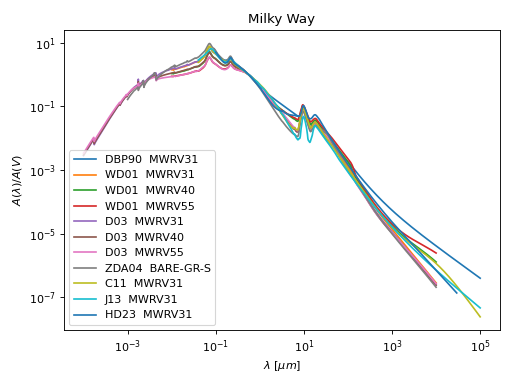
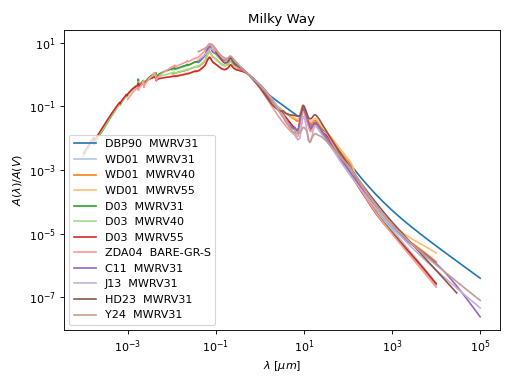
adding in Y24 grain model plot/reference

diff --git a/paper/paper.md b/paper/paper.md
@@ -57,7 +57,7 @@ width=70% }
 
 ![Examples of Parameter Average models [@Cardelli89; @ODonnell94; @Fitzpatrick99; @Fitzpatrick04; @Valencic04; @Gordon09; @MaizApellaniz14; @Fitzpatrick19; @Decleir22; @Gordon23].\label{fig:parameter_averages}](parameter_average_models.png)
 
-![Examples of Grain models that are based on fitting observed extinction curves as well as other dust observables (e.g., emission and polarization) [@Desert90; @Weingartner01; @Draine03; @Zubko04; @Compiegne11; @Jones13; @Hensley23].\label{fig:grain}](grain_models.png){ width=70% }
+![Examples of Grain models that are based on fitting observed extinction curves as well as other dust observables (e.g., emission and polarization) [@Desert90; @Weingartner01; @Draine03; @Zubko04; @Compiegne11; @Jones13; @Hensley23; &Ysard24].\label{fig:grain}](grain_models.png){ width=70% }
 
 ![Example of a Shape model that is focused on decomposing the UV extinction curve [@Fitzpatrick90].\label{fig:shapes}](shape_models.png){ width=70% }
 
